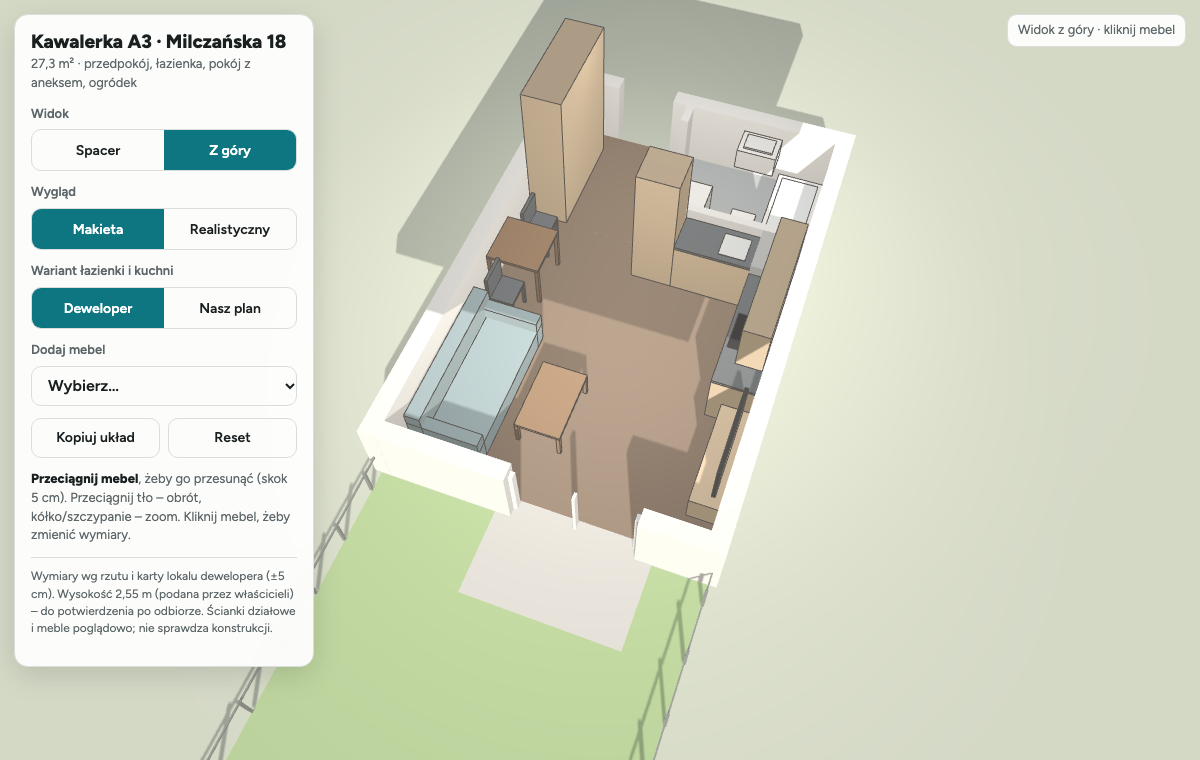
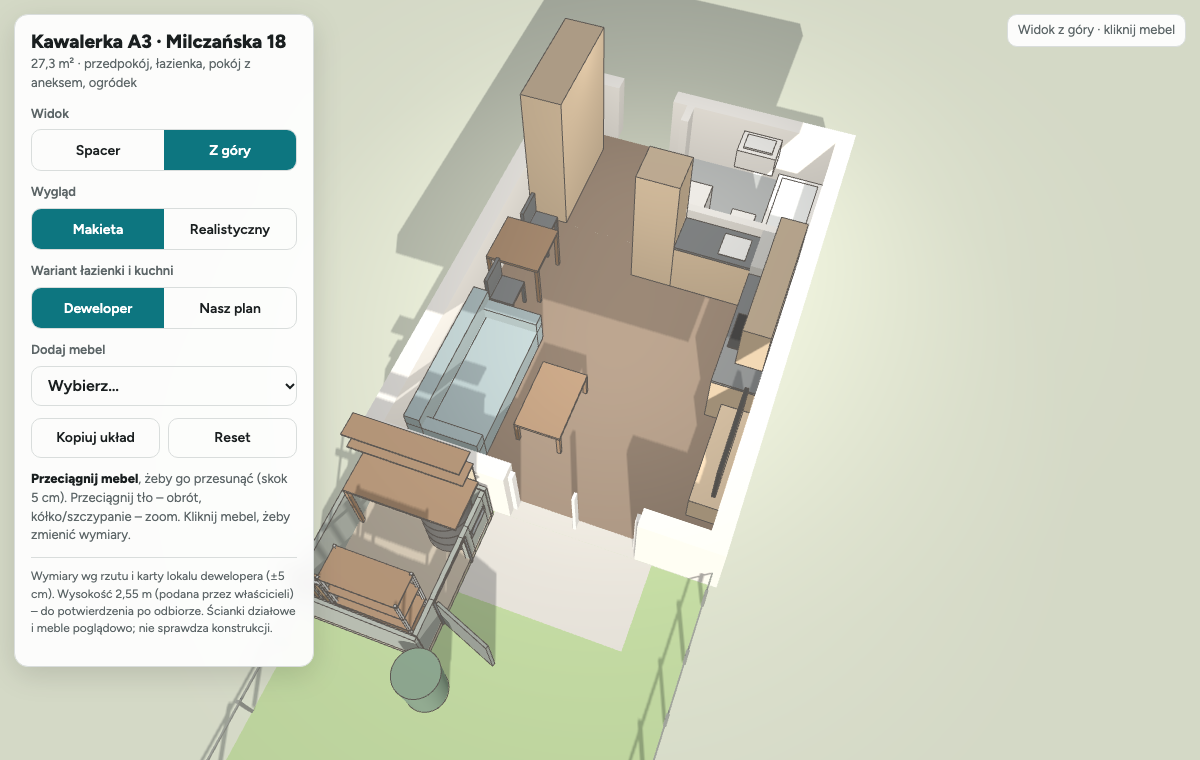
Dodanie szopy

Changed region(s): [[0.2467, 0.4539, 0.4317, 0.9382], [0.3083, 0.4237, 0.3392, 0.4539]]

diff --git a/index.html b/index.html
@@ -211,6 +211,15 @@ R('nWc','WC podwieszane','wc',2.82,3.22,1.22,1.75,.4,COL.white,'nasz');
 R('nSz','Szafa z pralką (do sufitu)','wardrobe',2,2.62,1.3,1.95,H,COL.oak,'nasz');
 R('nLu','Lustro 60×80','mirror',2.85,3.45,0,.02,.8,0xc9d6dc,'nasz');DEFAULT[DEFAULT.length-1].y=1.1; // nad umywalką, dół 110 cm
 R('nDr','Grzejnik drabinkowy 50×125','ladder',3.59,4.09,0,.05,1.25,0xf4f4f2,'nasz');DEFAULT[DEFAULT.length-1].y=1.15; // 115 cm nad podłogą, 16 cm od prawej ściany
+// ogródek: szopka 160×200 przy płocie sąsiada i elewacji (po prawej po wyjściu na taras), koncepcja 22.11.2026
+// dach jednospadowy: 2,20 przy płocie → 1,95 od strony tarasu (woda na nasz ogródek, rynna + beczka); drzwi 80 od strony tarasu, okienko nad blatem
+// podłoga szopki na podeście 10 cm (y=0,10); wnętrze x −0,04…1,44, z 7,06…8,94
+R('szopa','Szopka ogrodowa 160×200','shed',-.10,1.50,7.00,9.00,2.20,0x6f7a72);RX({fall:.25,door:[.70,1.50],doorH:1.85,win:[.15,.55,1.12,1.48]});
+R('szKola','Koła 4× 225/40 R18 (stos)','tires',.79,1.44,7.06,7.71,.90,0x2b2b2b);RX({y:.10}); // Corolla 18": opona ok. 64×22,5 cm
+R('szBlat','Blat warsztatowy (96 cm nad podłogą szopki)','bench',-.04,1.44,7.06,7.71,1.06,COL.wood); // nad stosem kół, 2 cm luzu
+R('szPolka','Półki nad blatem (2×, gł. 30)','rack',-.04,1.44,7.06,7.36,.37,COL.wood);RX({y:1.5,levels:[1.55,1.85]});
+R('szRegal','Regał na drobiazgi ogrodowe 94×40','rack',.50,1.44,8.54,8.94,1.80,COL.wood);RX({levels:[.16,.55,.95,1.35,1.75],posts:true,face:'-z'});
+R('szNarz','Narzędzia ogrodowe na listwie','tools',-.04,.50,8.64,8.94,1.65,0x7a5a3a);RX({face:'-z'});
 // wersje kuchni „Nasz plan” – osobno dla każdej ściany (listy rozwijane).
 // Nowa wersja = nowy wpis + meble z polem fr:'<id>' (ściana z lodówką) albo rtv:'<id>' (ściana od RTV)
 const FRIDGE_WALL=[
@@ -289,11 +298,20 @@ function build(it){
    for(let i=0;i<n;i++){const yy=y+.03+i*(h-.06)/(n-1);b(.03,w-.03,yy-.011,yy+.011,d*.3,d*.7)}}break;
   case'rug':b(0,w,0,.012,0,d);break;
   case'plant':b(w*.2,w*.8,0,.4,d*.2,d*.8,M(0x8a6f55));{const s=new THREE.Mesh(new THREE.SphereGeometry(w*.55,16,12),c);s.position.y=.4+w*.6;s.castShadow=true;g.add(s)}break;
+  case'shed':buildShed(it,g,{wall:c,wallIn:c,roof:M(0x4d5256),floor:M(0x9a8a72),door:M(0x56605a),glass:mat.glass,gutter:M(0x8f969b),barrel:M(0x3f5e46),trim:M(0x3d4246)});break;
+  case'tires':{const n=Math.max(1,Math.round(h/.225)),th=h/n,r=Math.min(w,d)/2-.005,y0=it.y||0; // koła leżące w stosie
+   for(let k=0;k<n;k++){const yc=y0+k*th+th/2,t=new THREE.Mesh(new THREE.CylinderGeometry(r,r,th-.01,32),c);t.position.y=yc;g.add(t);
+    const rim=new THREE.Mesh(new THREE.CylinderGeometry(.229,.229,th-.004,32),M(0xa3a9ad));rim.position.y=yc;g.add(rim)}}break;
+  case'bench':b(0,w,h-.04,h,0,d);b(0,.05,.1,h-.04,d-.05,d);b(.02,w-.02,h+.03,h+.47,0,.012,M(0xc9b28a));break; // blat + noga od płotu + tablica narzędziowa
+  case'rack':{const lv=it.levels||[h];lv.forEach(y=>b(0,w,y-.018,y,0,d));
+   if(it.posts){const y1=Math.max(...lv)+.03,yb=lv[0]-.06;[[0,0],[w-.03,0],[0,d-.03],[w-.03,d-.03]].forEach(([x,z])=>b(x,x+.03,yb,y1,z,z+.03,M(COL.grey)))}}break;
+  case'tools':{const back=frontOf(it)==='-z',zw=back?d:0,s=back?-1:1,zz=(a,q)=>[Math.min(zw+s*a,zw+s*q),Math.max(zw+s*a,zw+s*q)];
+   b(0,w,1.46,1.52,...zz(0,.03),M(COL.grey));for(let k=0;k<4;k++){const x=w*(k+.5)/4;b(x-.015,x+.015,.3,h,...zz(.035,.065));b(x-.012,x+.012,.1,.3,...zz(.02,.28),M(k===2?0x8a3a2a:COL.grey))}}break;
   default:b(0,w,0,h,0,d)}
  addEdges(g);g.position.set(it.x,0,it.z);g.rotation.y=-it.rot*Math.PI/180;g.userData.id=it.id;return g}
 const edgeMat=new THREE.LineBasicMaterial({color:0x1c1916});
 const glassEdgeMat=new THREE.LineBasicMaterial({color:0x6d7f86});
-function addEdges(g){g.children.slice().forEach(o=>{if(!o.isMesh)return;
+function addEdges(g){const ms=[];g.traverse(o=>{if(o.isMesh)ms.push(o)});ms.forEach(o=>{
  const l=new THREE.LineSegments(new THREE.EdgesGeometry(o.geometry,30),o.material===mat.glass?glassEdgeMat:edgeMat);l.raycast=()=>{};o.add(l)})}
 const visible=it=>!it.hidden&&(it.v==='all'||it.v===state.bath)&&(!it.fr||it.fr===(state.fridge||'pod'))&&(!it.rtv||it.rtv===(state.rtv||'w2x60'));
 function rebuild(){
@@ -304,7 +322,48 @@ function rebuild(){
  renderer.shadowMap.needsUpdate=true;save();syncSel()}
 function outline(g){g.traverse(o=>{if(o.isMesh&&o.material&&o.material.isMeshStandardMaterial&&o.material!==mat.glass&&!o.material.transparent){o.material=o.material.clone();o.material.emissive=new THREE.Color(0x0d7680);o.material.emissiveIntensity=.35}})}
 function footprint(it){const r=it.rot%180!==0;return r?[it.d,it.w]:[it.w,it.d]}
-function itemSolids(){return state.items.filter(it=>visible(it)&&it.kind!=='rug'&&it.id!=='gorne'&&!(it.y>=1)).map(it=>{const[fw,fd]=footprint(it);return[it.x-fw/2,it.x+fw/2,it.z-fd/2,it.z+fd/2]})}
+function itemSolids(){const out=[];state.items.filter(it=>visible(it)&&it.kind!=='rug'&&it.id!=='gorne'&&!(it.y>=1)).forEach(it=>{
+ if(it.kind==='shed'){out.push(...shedRects(it));return} // szopka: kolizje tylko ze ścianami, przez drzwi można wejść
+ const[fw,fd]=footprint(it);out.push([it.x-fw/2,it.x+fw/2,it.z-fd/2,it.z+fd/2])});return out}
+// ściany szopki jako prostokąty w układzie świata (obrót co 90°)
+function shedRects(it){const w=it.w,d=it.d,t=.06,X0=-w/2,X1=w/2,Z0=-d/2,Z1=d/2,dr=it.door||[d/2-.4,d/2+.4],a=-it.rot*Math.PI/180,c=Math.round(Math.cos(a)),s=Math.round(Math.sin(a));
+ return[[X0,X0+t,Z0,Z1],[X0,X1,Z0,Z0+t],[X0,X1,Z1-t,Z1],[X1-t,X1,Z0,Z0+dr[0]],[X1-t,X1,Z0+dr[1],Z1]].map(([x0,x1,z0,z1])=>{
+  const p=[[x0,z0],[x1,z1]].map(([x,z])=>[it.x+x*c+z*s,it.z-x*s+z*c]);return[Math.min(p[0][0],p[1][0]),Math.max(p[0][0],p[1][0]),Math.min(p[0][1],p[1][1]),Math.max(p[0][1],p[1][1])]})}
+// ---------- szopka ogrodowa (wspólna dla makiety i trybu realistycznego) ----------
+// Lokalnie: −x = ściana przy płocie sąsiada (wysoka, it.h), +x = ściana z drzwiami (niska, it.h−fall); dach spada w stronę +x.
+// Pola: fall (spadek dachu), door [z0,z1] od krawędzi −z, doorH, win [z0,z1,y0,y1] (okienko w ścianie z drzwiami).
+// Z góry: ściany obniżone (×0,42) i bez dachu, jak w mieszkaniu.
+function buildShed(it,g,m,real){
+ const w=it.w,d=it.d,hi=it.h,lo=hi-(it.fall!=null?it.fall:.25),t=.06,X0=-w/2,X1=w/2,Z0=-d/2,Z1=d/2,walk=mode==='walk';
+ const dr=it.door||[d/2-.4,d/2+.4],da=Z0+dr[0],db=Z0+dr[1],dh=it.doorH||1.85,wn=it.win,top=x=>hi-(x-X0)*(hi-lo)/w;
+ const W=new THREE.Group();W.scale.y=walk?1:.42;g.add(W);
+ const add=(geo,mt,x,y,z,p)=>{const o=new THREE.Mesh(geo,mt);o.position.set(x,y,z);o.castShadow=o.receiveShadow=true;p.add(o);return o};
+ const bx=(x0,x1,y0,y1,z0,z1,mt,p=W)=>add(boxUV(new THREE.BoxGeometry(x1-x0,y1-y0,z1-z0)),mt,(x0+x1)/2,(y0+y1)/2,(z0+z1)/2,p);
+ const o=m.wall,i=m.wallIn;
+ bx(X0,X1,0,.1,Z0,Z1,m.floor,g); // podest na bloczkach + podłoga
+ bx(X0,X0+t,0,hi,Z0,Z1,[i,o,o,o,o,o]); // ściana przy płocie (wnętrze od +x)
+ const sh=new THREE.Shape();sh.moveTo(X0,0);sh.lineTo(X1,0);sh.lineTo(X1,lo);sh.lineTo(X0,hi);sh.lineTo(X0,0);
+ const ex=(dep,mt,z0)=>add(boxUV(new THREE.ExtrudeGeometry(sh,{depth:dep,bevelEnabled:false})),mt,0,0,z0,W);
+ ex(t-.012,o,Z0);ex(.012,i,Z0+t-.012);ex(.012,i,Z1-t);ex(t-.012,o,Z1-t+.012); // ściany szczytowe (skośna góra), okładzina zewn. + wewn.
+ // ściana z drzwiami i okienkiem (wnętrze od −x)
+ const fm=[o,i,o,o,o,o],holes=[[da,db,0,dh]];if(wn)holes.push([Z0+wn[0],Z0+wn[1],wn[2],wn[3]]);holes.sort((a,b)=>a[0]-b[0]);
+ let zc=Z0+t;holes.forEach(([a,b,y0,y1])=>{if(a>zc)bx(X1-t,X1,0,lo,zc,a,fm);if(y0>0)bx(X1-t,X1,0,y0,a,b,fm);bx(X1-t,X1,y1,lo,a,b,fm);zc=b});
+ if(Z1-t>zc)bx(X1-t,X1,0,lo,zc,Z1-t,fm);
+ if(wn){const a=Z0+wn[0],b=Z0+wn[1];bx(X1-t/2-.004,X1-t/2+.004,wn[2],wn[3],a,b,m.glass).castShadow=false;
+  [[a,a+.03],[b-.03,b]].forEach(([p,q])=>bx(X1-t,X1+.008,wn[2],wn[3],p,q,m.trim));[[wn[2],wn[2]+.03],[wn[3]-.03,wn[3]]].forEach(([p,q])=>bx(X1-t,X1+.008,p,q,a,b,m.trim))}
+ [[da-.04,da],[db,db+.04]].forEach(([p,q])=>bx(X1,X1+.012,0,dh+.04,p,q,m.trim));bx(X1,X1+.012,dh,dh+.04,da,db,m.trim); // opaska drzwi
+ // skrzydło drzwi otwarte na zewnątrz (zawiasy od strony ogrodu, otwiera się do ściany szczytowej)
+ const pv=new THREE.Group();pv.position.set(X1+.03,0,db);pv.rotation.y=-110*Math.PI/180;W.add(pv);const dw=db-da;
+ bx(-.02,.02,.02,dh-.01,-dw+.005,-.005,m.door,pv);
+ if(real){bx(-.022,-.018,.25,dh-.25,-dw+.03,-dw+.05,m.trim,pv);[.02,-.042].forEach(x=>bx(x,x+.022,.98,1.01,-dw+.05,-dw+.19,m.handle,pv))}
+ if(real)[[X0,Z0,hi],[X0,Z1,hi],[X1,Z0,lo],[X1,Z1,lo]].forEach(([x,z,hh])=>bx(x-.014,x+.014,0,hh,z-.014,z+.014,m.trim)); // narożniki
+ const ovL=.04,ovR=.15,ov0=.03,ov1=.08,xb=X1+ovR,gx=xb+.05;
+ if(walk){const rt=.06,a=Math.atan((hi-lo)/w),xa=X0-ovL,xc=(xa+xb)/2,zm=(Z0-ov0+Z1+ov1)/2; // dach (przy płocie 4 cm okapu, od tarasu 15 cm)
+  const rf=add(boxUV(new THREE.BoxGeometry((xb-xa)/Math.cos(a),rt,d+ov0+ov1)),m.roof,xc,top(xc)+rt/2/Math.cos(a),zm,g);rf.rotation.z=-a;
+  const gy=top(xb)-.05,gt=add(new THREE.CylinderGeometry(.045,.045,d+ov0+ov1,16),m.gutter,gx,gy,zm,g);gt.rotation.x=Math.PI/2; // rynna
+  add(new THREE.CylinderGeometry(.035,.035,gy-.75,12),m.gutter,gx,(gy+.75)/2,Z1+.05,g)} // rura spustowa
+ add(new THREE.CylinderGeometry(.28,.26,.75,32),m.barrel,gx-.05,.375,Z1+.3,g); // beczka na deszczówkę
+}
 
 // =====================================================================
 // ---------- TRYB REALISTYCZNY ----------
@@ -400,7 +459,10 @@ function makeTextures(){
  T.sky=new THREE.CanvasTexture(texSky(false));T.skyEve=new THREE.CanvasTexture(texSky(true));[T.sky,T.skyEve].forEach(t=>t.encoding=THREE.sRGBEncoding);
  T.art=new THREE.CanvasTexture(texArt());T.art.encoding=THREE.sRGBEncoding;
  T.hob2=new THREE.CanvasTexture(texHob(2));T.hob4=new THREE.CanvasTexture(texHob(4));[T.hob2,T.hob4].forEach(t=>t.encoding=THREE.sRGBEncoding);
- T.ao=new THREE.CanvasTexture(texAO());T.grad=new THREE.CanvasTexture(texGrad())}
+ T.ao=new THREE.CanvasTexture(texAO());T.grad=new THREE.CanvasTexture(texGrad());
+ {const[c,g]=cnv(512);g.drawImage(texWood('#4d5255','rgba(14,16,18,',512,512,'boards'),0,0); // szopka: deska elewacyjna pionowa 12 cm, grafit
+  for(let i=0;i<6;i++){const x=i*512/6;g.fillStyle='rgba(8,9,10,.85)';g.fillRect(x,0,4,512);g.fillStyle='rgba(255,255,255,.07)';g.fillRect(x+4,0,2,512)}T.boards=tex(c,.72,.72)}
+ T.ply=tex(texWood('#d8c39e','rgba(130,95,55,',512,512,'ply'),.6,.6)} // sklejka (wnętrze szopki, półki)
 // mapa otoczenia (odbicia + światło rozproszone): jasne pomieszczenie z oknem, przez PMREM
 function makeEnv(){const s=new THREE.Scene(),B=c=>new THREE.MeshBasicMaterial({color:c,side:THREE.BackSide});
  s.add(new THREE.Mesh(new THREE.BoxGeometry(8,3,8),[B(0xc9c6c0),B(0xc9c6c0),B(0xf2f0ec),B(0x857868),B(0xc9c6c0),B(0xc9c6c0)]));
@@ -439,6 +501,8 @@ function makeMats(){
   plaster2:RM({map:T.plaster,color:0xcfcac2,roughness:.95,envMapIntensity:.5}),
   leaves:RM({map:T.leaves,roughness:.85,envMapIntensity:.35}),bark:RM({map:T.bark,roughness:.9}),
   fence:RM({color:0x2f3236,roughness:.5,metalness:.3}),
+  shedOut:RM({map:T.boards,bumpMap:T.boards,bumpScale:.002,roughness:.8}),shedIn:RM({map:T.ply,roughness:.75}),roofE:RM({color:0x2c2e30,roughness:.9}),
+  rubber:RM({color:0x1b1c1d,roughness:.85,side:D}),rim:RM({color:0x9da3a8,metalness:.85,roughness:.3,envMapIntensity:.9,side:D}),
   linen:RM({color:0xf1ede4,map:T.fabric,roughness:1,transparent:true,opacity:.9,side:D,envMapIntensity:.45}),
   bedding:RM({color:0xf4f2ee,map:T.fabric,roughness:.95,envMapIntensity:.6}),duvet:RM({color:0xdcd8cf,map:T.fabric,bumpMap:T.fabric,bumpScale:.002,roughness:.95,envMapIntensity:.6}),
   pot:RM({color:0xe6e1d8,roughness:.75}),soil:RM({color:0x2a2018,roughness:1}),stem:RM({color:0x4e6b2e,roughness:.8}),
@@ -625,6 +689,39 @@ function buildReal(it){
    bx(X0+.07,X1-.07,y+h*.5,y+h*.78,zt+.013,zt+.032,fabricFor(0xd9d2c5),.012);break} // ręcznik
   case'rug':bx(X0,X1,0,.012,Z0,Z1,rugFor(it.color),.004).castShadow=false;break;
   case'plant':plantInto(P,0,0,0,h,rnd,Math.min(L,D));break;
+  case'shed':buildShed(it,g,{wall:MAT.shedOut,wallIn:MAT.shedIn,roof:MAT.roofE,floor:MAT.shedIn,door:MAT.shedOut,glass:MAT.glass,gutter:MAT.fence,barrel:matFor(0x3c5a44),trim:MAT.frame,handle:MAT.handle},true);break;
+  case'tires':{const n=Math.max(1,Math.round(h/.225)),th=h/n,r=Math.min(L,D)/2-.005,y0=it.y||0,rr=.229; // koło 18": felga Ø ok. 46 cm
+   for(let k=0;k<n;k++){const yy=y0+k*th,pr=[[rr,.012],[r-.025,0],[r-.004,.025],[r,th/2],[r-.004,th-.025],[r-.025,th],[rr,th-.012]].map(([a,b])=>new THREE.Vector2(a,b));
+    add(new THREE.LatheGeometry(pr,48),MAT.rubber,0,yy,0);add(new THREE.CylinderGeometry(rr,rr,th-.03,40,1,true),MAT.rim,0,yy+th/2,0);
+    cyl(rr-.004,rr-.004,.01,0,yy+th/2,0,MAT.blackMetal,40);cyl(.07,.07,.03,0,yy+th-.05,0,MAT.rim,24);
+    for(let q=0;q<5;q++){const sp=bx(.05,rr-.01,yy+th-.05,yy+th-.03,-.02,.02,MAT.rim);const pg=new THREE.Group();pg.rotation.y=q*Math.PI*2/5+k;P.add(pg);pg.add(sp)}}break}
+  case'bench':{const tk=.04,tt=h-tk,fl=.1,wd=MAT.walnut; // blat warsztatowy na listwach przykręconych do 3 ścian + jedna noga (od strony kół wolne)
+   bx(X0,X1,tt,h,Z0,Z1,MAT.oak,.004);bx(X0,X0+.04,tt-.06,tt,Z0,Z1,wd);bx(X1-.04,X1,tt-.06,tt,Z0,Z1,wd);bx(X0,X1,tt-.06,tt,Z0,Z0+.04,wd);
+   bx(X0+.01,X0+.06,fl,tt,Z1-.06,Z1-.01,wd);
+   bx(X0+.02,X1-.02,h+.03,h+.47,Z0,Z0+.012,matFor(0xc8b08a)); // tablica narzędziowa
+   const zp=Z0+.012;[[X0+.15,.24,MAT.blackMetal],[X0+.25,.2,MAT.steel],[X0+.31,.17,MAT.steel],[X0+.37,.14,MAT.steel]].forEach(([x,l,m])=>bx(x-.008,x+.008,h+.4-l,h+.4,zp,zp+.01,m));
+   bx(X0+.5,X0+.52,h+.12,h+.36,zp,zp+.025,wd);bx(X0+.46,X0+.56,h+.34,h+.38,zp,zp+.03,MAT.blackMetal); // młotek
+   [0,1,2,3,4].forEach(q=>{const x=X0+.68+q*.05;bx(x-.006,x+.006,h+.12,h+.24,zp,zp+.01,MAT.steel);bx(x-.012,x+.012,h+.24,h+.33,zp,zp+.025,matFor([0xb33a2e,0xe0b030,0x2f5f8f][q%3]),.004)});
+   bx(X0+.95,X1-.15,h+.15,h+.35,zp,zp+.004,MAT.steel);bx(X1-.15,X1-.1,h+.17,h+.33,zp,zp+.03,wd,.01); // piła
+   bx(X0+.12,X0+.32,h,h+.09,Z1-.13,Z1+.02,matFor(0x2f5f8f),.008); // imadło
+   bx(X0+.12,X0+.6,fl,fl+.24,Z0+.1,Z0+.42,matFor(0xb33a2e),.012);bx(X0+.3,X0+.42,fl+.24,fl+.26,Z0+.22,Z0+.3,MAT.blackMetal); // skrzynka narzędziowa
+   break}
+  case'rack':{const lv=(it.levels||[h]).slice(),bm=MAT.shedIn;
+   if(it.posts){const y1=Math.max(...lv)+.03,yb=lv[0]-.06;[[X0+.015,Z0+.015],[X1-.015,Z0+.015],[X0+.015,Z1-.015],[X1-.015,Z1-.015]].forEach(([x,z])=>bx(x-.015,x+.015,yb,y1,z-.015,z+.015,MAT.steel))}
+   else[X0+.1,X1-.1].forEach(x=>{bx(x-.008,x+.008,lv[0]-.2,lv[lv.length-1],Z0,Z0+.012,MAT.blackMetal);lv.forEach(y=>bx(x-.007,x+.007,y-.05,y-.018,Z0+.012,Z1-.04,MAT.blackMetal))}); // szyny + wsporniki
+   lv.forEach((y,li)=>{bx(X0,X1,y-.018,y,Z0,Z1,bm,.003);const room=li<lv.length-1?lv[li+1]-y-.06:.1;if(room<.05)return;let x=X0+.03;
+    while(x<X1-.1){const k=rnd(),ww=.12+rnd()*.22;if(x+ww>X1-.03)break;const hh=Math.min(room,.1+rnd()*.22),zc=(Z0+Z1)/2;
+     if(k<.35)bx(x,x+ww,y,y+hh,Z0+.03,Z1-.04,matFor([0x7d8489,0x4c5a63,0xb8bcbe][Math.floor(rnd()*3)]),.01); // pojemnik
+     else if(k<.55){const r=Math.min(ww/2,.07);cyl(r,r*.8,Math.min(hh,.14),x+r,y,zc,matFor(0xb5653d),16)} // doniczki
+     else if(k<.7){const r=Math.min(ww/2,.06);cyl(r,r,Math.min(hh,.17),x+r,y,zc,MAT.steel,16)} // puszka
+     else if(k<.85)bx(x,x+ww,y,y+Math.min(hh,.12),Z0+.05,Z1-.06,matFor(0x5a6e3a),.03); // worek z ziemią / nawozem
+     x+=ww+.03+rnd()*.06}});break}
+  case'tools':{const zb=Z0+.05;bx(X0,X1,1.46,1.52,Z0,Z0+.03,MAT.steel); // listwa z uchwytami, trzonki pionowo, głowice na podłodze szopki
+   for(let k=0;k<4;k++){const x=X0+L*(k+.5)/4;cyl(.014,.014,h-.3,x,.3,zb,MAT.walnut,10);bx(x-.02,x+.02,1.47,1.51,Z0+.03,zb+.02,MAT.blackMetal);
+    if(k===0){bx(x-.01,x+.01,.22,.25,zb-.13,zb+.13,MAT.blackMetal);for(let q=0;q<9;q++)bx(x-.004,x+.004,.1,.22,zb-.125+q*.031,zb-.117+q*.031,MAT.blackMetal);cyl(.01,.01,.06,x,.25,zb,MAT.blackMetal,8)} // grabie
+    else if(k===1)bx(x-.008,x+.008,.1,.31,zb-.09,zb+.09,MAT.steel,.006); // szpadel
+    else if(k===2){bx(x-.03,x+.03,.2,.3,zb-.13,zb+.13,matFor(0x8a3a2a),.01);bx(x-.025,x+.025,.1,.2,zb-.12,zb+.12,matFor(0x2a2520))} // miotła
+    else bx(x-.008,x+.008,.1,.33,zb-.11,zb+.11,matFor(0x2f5a3a),.006)}break} // łopata
   default:bx(X0,X1,0,h,Z0,Z1,body,.01)}
  const ao=FLOOR_AO[it.kind];
  if(ao&&!(it.y>.05)&&!(it.kind==='wc'&&it.v==='nasz')){const m=new THREE.Mesh(new THREE.PlaneGeometry(it.w+.24,it.d+.24).rotateX(-Math.PI/2),aoFor(ao));m.position.y=.003;m.raycast=()=>{};g.add(m)}
@@ -691,11 +788,11 @@ function makeReal(){
   for(let i=0;i<5;i++)mesh(foliage((.55+r()*.35)*s,seed+i),MAT.leaves,x+(r()-.5)*.9*s,(2.1+r()*1.1)*s,z+(r()-.5)*.9*s,base)};
  tree(3.6,11.4,1.1,'t1');const tr=rngOf('las');
  for(let i=0;i<34;i++){const a=tr()*Math.PI*1.25-Math.PI*.12,d=13+tr()*22,x=2.1+Math.cos(a)*d,z=7+Math.sin(a)*d;if(z<7.5)continue;tree(x,z,1.3+tr()*1.4,'f'+i)}
- // stolik i dwa krzesła na tarasie
- mesh(new THREE.CylinderGeometry(.3,.3,.02,32),MAT.fence,2.1,.72,7.55,base);mesh(new THREE.CylinderGeometry(.02,.02,.7,10),MAT.fence,2.1,.36,7.55,base);mesh(new THREE.CylinderGeometry(.2,.2,.02,24),MAT.fence,2.1,.01,7.55,base);
- [[1.62,7.55,Math.PI/2],[2.58,7.55,-Math.PI/2]].forEach(([x,z,ry])=>{const c=new THREE.Group();c.position.set(x,0,z);c.rotation.y=ry;base.add(c);
+ // stolik i dwa krzesła na tarasie (przesunięte od szopki)
+ mesh(new THREE.CylinderGeometry(.3,.3,.02,32),MAT.fence,2.75,.72,7.55,base);mesh(new THREE.CylinderGeometry(.02,.02,.7,10),MAT.fence,2.75,.36,7.55,base);mesh(new THREE.CylinderGeometry(.2,.2,.02,24),MAT.fence,2.75,.01,7.55,base);
+ [[2.27,7.55,Math.PI/2],[3.23,7.55,-Math.PI/2]].forEach(([x,z,ry])=>{const c=new THREE.Group();c.position.set(x,0,z);c.rotation.y=ry;base.add(c);
   mesh(boxUV(RB(.42,.03,.42,.008,1)),MAT.fence,0,.45,0,c);mesh(boxUV(RB(.42,.4,.03,.008,1)),MAT.fence,0,.68,-.2,c);[[-.19,-.19],[.19,-.19],[-.19,.19],[.19,.19]].forEach(([a,b])=>mesh(new THREE.CylinderGeometry(.012,.012,.45,8),MAT.fence,a,.225,b,c))});
- plantInto(base,3.25,0,7.2,.7,rngOf('pot1'),.4);
+ plantInto(base,3.55,0,7.2,.7,rngOf('pot1'),.4);
  // elewacja budynku (3 kondygnacje) z oknami sąsiadów
  const fz=6.95;wbox(-9,1.72,0,9.4,fz,fz+.04,MAT.plaster,upper);wbox(3.42,13,0,9.4,fz,fz+.04,MAT.plaster,upper);wbox(1.72,3.42,GDOOR,9.4,fz,fz+.04,MAT.plaster,upper);
  [2.95,5.9].forEach(y=>wbox(-9,13,y-.14,y,fz+.04,fz+.1,MAT.plaster2,upper));wbox(-9,13,9.2,9.4,fz+.04,fz+.12,MAT.plaster2,upper);
@@ -746,7 +843,7 @@ const help=document.getElementById('help');
 function setMode(m){mode=m;document.querySelectorAll('#mode button').forEach(b=>b.classList.toggle('on',b.dataset.m===m));
  ceil.visible=m==='walk';wallsG.scale.y=m==='walk'?1:.42;lintG.visible=m==='walk';
  if(REAL){REAL.walls.scale.y=m==='walk'?1:.42;REAL.upper.visible=m==='walk'}
- renderer.shadowMap.needsUpdate=true;if(style==='real')rebuild();
+ renderer.shadowMap.needsUpdate=true;rebuild(); // też makieta: szopka bez dachu z góry
  help.innerHTML=m==='walk'?'<b>Komputer:</b> WASD/strzałki – chodzenie, przeciągnij myszą – rozglądanie. <b>Telefon:</b> lewa połowa ekranu – chodzenie, prawa – rozglądanie.':'<b>Przeciągnij mebel</b>, żeby go przesunąć (skok 5 cm). Przeciągnij tło – obrót, kółko/szczypanie – zoom. Kliknij mebel, żeby zmienić wymiary.';
  hud.textContent=(m==='walk'?'Spacer · wysokość oczu 162 cm':'Widok z góry · kliknij mebel')+(style==='real'?' · realistyczny':'')}
 document.querySelectorAll('#mode button').forEach(b=>b.onclick=()=>setMode(b.dataset.m));

diff --git a/tools/screenshot.py b/tools/screenshot.py
@@ -1,7 +1,7 @@
 """Zrzuty ekranu modelu do sprawdzenia zmian.
 Użycie: pip install playwright && playwright install chromium
         python3 tools/screenshot.py
-Wynik: shots/spacer.png, shots/z_gory.png, shots/z_gory_slupek.png, shots/z_gory_rtv_bez_gornych.png, shots/z_gory_deweloper.png
+Wynik: shots/spacer.png, shots/z_gory.png, shots/z_gory_slupek.png, shots/z_gory_rtv_bez_gornych.png, shots/z_gory_deweloper.png, shots/szopka.png
        oraz tryb realistyczny: shots/real_*.png (python3 tools/screenshot.py real – tylko te)
 """
 import asyncio, pathlib, sys
@@ -35,7 +35,8 @@ async def real(pg):
     await pg.wait_for_timeout(1500)
     views = [("real_wejscie", 1.25, .8, 3.1416, -.05), ("real_pokoj", 2.7, 6.3, .25, -.08),
              ("real_kuchnia", 1.4, 4.9, -0.75, -.12), ("real_lazienka", 2.2, .5, -2.45, -.2),
-             ("real_lustro", 3.3, 1.35, 0.15, -.1), ("real_ogrod", 2.4, 10.5, 0, .02)]
+             ("real_lustro", 3.3, 1.35, 0.15, -.1), ("real_ogrod", 2.4, 10.5, 0, .02),
+             ("real_szopka", 2.7, 10.2, .76, -.1), ("real_szopka_blat", 1.2, 8.15, .29, -.3), ("real_szopka_regal", 1.2, 7.95, 2.85, -.25)]
     for name, x, z, yaw, pitch in views:
         await pg.evaluate(f"A3.view({x},{z},{yaw},{pitch})")
         await pg.wait_for_timeout(900)
@@ -62,6 +63,10 @@ async def real(pg):
 
 async def mock(pg):
     await pg.screenshot(path=OUT / "spacer.png")
+    await pg.evaluate("A3.view(2.7,10.2,.76,-.1)")
+    await pg.wait_for_timeout(500)
+    await pg.screenshot(path=OUT / "szopka.png")
+    await pg.evaluate("A3.view(1.25,.8,3.1416,-.05)")
     await pg.click("#mode button[data-m=top]")
     await pg.wait_for_timeout(800)
     await pg.screenshot(path=OUT / "z_gory.png")

diff --git a/CLAUDE.md b/CLAUDE.md
@@ -12,7 +12,7 @@ na etapie koncepcji, przed decyzjami instalacyjnymi. Interfejs i komentarze po p
   `examples/js/lights/RectAreaLightUniformsLib.js` (światło z drzwi tarasowych). Bez nich działa w uproszczeniu.
 - Uruchomienie: otwórz `index.html` w przeglądarce (albo `npx serve .`).
 - Po każdej zmianie zrób zrzut: `python3 tools/screenshot.py` (wymaga `pip install playwright && playwright install chromium`),
-  potem obejrzyj `shots/*.png`. `python3 tools/screenshot.py real` robi tylko kadry trybu realistycznego (`shots/real_*.png`, ok. 1 min).
+  potem obejrzyj `shots/*.png` (m.in. `szopka.png`, `real_szopka*.png`). `python3 tools/screenshot.py real` robi tylko kadry trybu realistycznego (`shots/real_*.png`, ok. 1 min).
 - Wymiary podawaj w metrach w kodzie, w cm w UI. Nie zmieniaj geometrii ścian bez prośby użytkownika.
 - Nie twierdź, że ścianę można usunąć. Model nie weryfikuje konstrukcji. Ściany zewnętrzne,
   międzylokalowe, słupek i szacht traktuj jako stałe, nie do ruszania. Karta dewelopera ma
@@ -48,7 +48,8 @@ na etapie koncepcji, przed decyzjami instalacyjnymi. Interfejs i komentarze po p
 - `v`: `'all'` | `'dev'` | `'nasz'`. Przełącznik „Wariant łazienki i kuchni” ustawia `state.bath` i pokazuje odpowiedni wariant.
 - Pola opcjonalne mebla: `y` (wys. dolnej krawędzi: szafki wiszące, lustro, drabinka), `mods` (linie podziału frontów), `hob:2` (płyta 2-palnikowa), `fr` (wariant lodówki), `sink`, `face:'+x'` (front szafy od +x).
 - `build(it)` rysuje mebel wg `kind`: sofa, bed, table, chair, wardrobe, tall, upper, sinkc, cook, tv, sink,
-  bath, wc, washer, fridge, shower, showerq (półokrągły, narożnik w lokalnym +x,+z), ladder (grzejnik drabinkowy), mirror (lustro; oba z opcjonalnym `y` = wys. dolnej krawędzi), rug, plant (domyślnie prostopadłościan). Nowy rodzaj = nowy `case`.
+  bath, wc, washer, fridge, shower, showerq (półokrągły, narożnik w lokalnym +x,+z), ladder (grzejnik drabinkowy), mirror (lustro; oba z opcjonalnym `y` = wys. dolnej krawędzi), rug, plant (domyślnie prostopadłościan),
+  shed (szopka, `buildShed` wspólny dla obu trybów), tires (stos kół), bench (blat warsztatowy), rack (półki/regał: `levels` = wys. półek, `posts`), tools (narzędzia na listwie). Nowy rodzaj = nowy `case`.
 - `CATALOG` – meble do dodania z listy: `[nazwa, kind, w, d, h, kolor]`.
 - Stan zapisuje się w `localStorage` (klucz `a3-milczanska-uklad-v10`; v1–v9 migrują się z zachowaniem pozycji, przy migracji meble łazienki „nasz” biorą się z `DEFAULT`). Po zmianie `DEFAULT` użyj „Reset”
   albo podbij wersję klucza.
@@ -96,6 +97,14 @@ na etapie koncepcji, przed decyzjami instalacyjnymi. Interfejs i komentarze po p
   Linie podziału frontów z pola `mods` (szerokości modułów w m), pozycja zlewu z `sink:[x0,x1]`.
 - Przedpokój „Nasz plan”: szafa do sufitu (z 0,62–2,04) + obudowa GK przewodu kominowego w narożniku przy wejściu
   (x 0–0,32, z 0,32–0,62, wymiar przyjęty, do zmierzenia) z płytką szafką 28 cm przed nią. „Deweloper” = szafa 2,40 m.
+
+- Ogródek „szopka” (22.11.2026, koncepcja, v:'all'): 160×200 przy płocie sąsiada i elewacji, po prawej po wyjściu na taras (x −0,10–1,50, z 7,00–9,00).
+  Dach jednospadowy 2,20 przy płocie → 1,95 od tarasu (pole `fall`), okap 4 cm od płotu / 15 cm od tarasu, rynna + rura do beczki na deszczówkę.
+  Drzwi 80×185 w ścianie od tarasu (z 7,70–8,50, pole `door` od krawędzi z0), otwierane na zewnątrz w stronę ogrodu; okienko nad blatem (`win`). Podłoga na podeście 10 cm.
+  Wnętrze: koła 4× 225/40 R18 w stosie (x 0,79–1,44, z 7,06–7,71, wys. 90) pod blatem warsztatowym 1,06 od gruntu (96 od podłogi szopki), tablica narzędziowa, 2 półki 30 cm (1,55 i 1,85);
+  naprzeciw regał 94×40 (5 półek) i narzędzia ogrodowe na listwie. Przejście między blatem a regałem ok. 83 cm. Kolizje szopki = tylko ściany (`shedRects`), można wejść w spacerze.
+  Z góry: ściany ×0,42, bez dachu (`setMode` przebudowuje meble w obu trybach). Stolik z krzesłami na tarasie (tryb realistyczny) przesunięty na x 2,75.
+  Do sprawdzenia przez właścicieli: zgody wspólnoty / regulamin ogródków, MPZP i przepisy o odległości od granicy, prąd do warsztatu.
 
 ## Pomysły na dalsze kroki
 - Łóżko vs sofa rozkładana.
